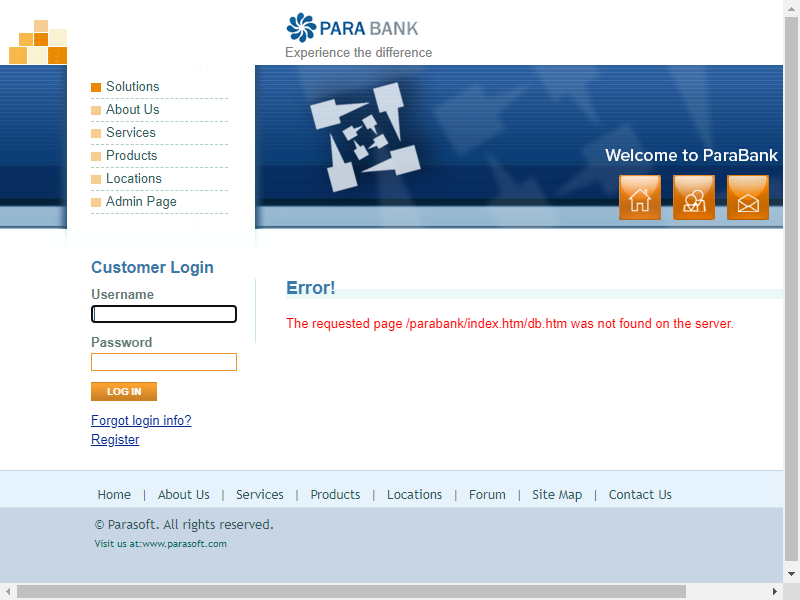
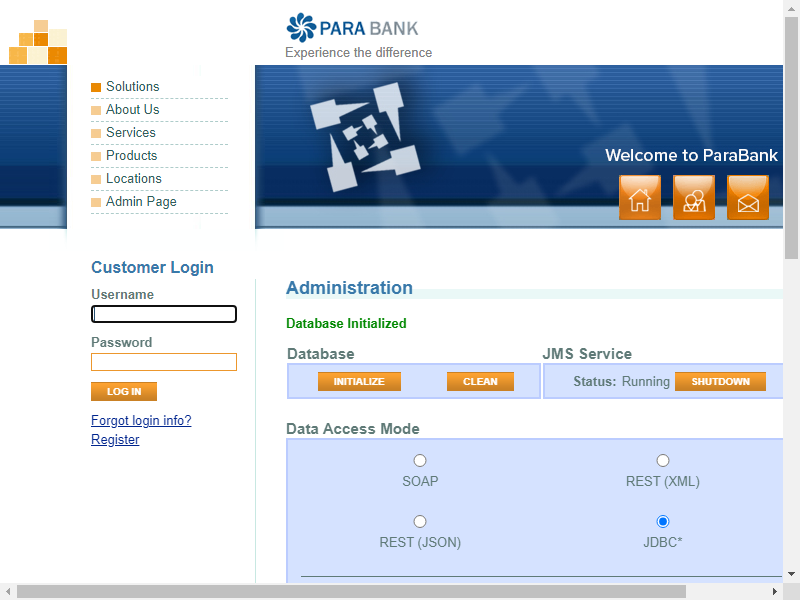
ultimas alterações

Changed region(s): [[0.0, 0.42, 1.0, 0.99], [0.8438, 0.51, 0.9062, 0.57]]

diff --git a/testes_automatizados/features/step_definitions/initialize_database.rb b/testes_automatizados/features/step_definitions/initialize_database.rb
@@ -8,13 +8,13 @@ Quando('clicar na opção  da página de administrador') do
 end
   
 Quando('clicar para iniciar o banco de dados') do 
-    #@database_page = Pages::Database.new
-    #@database_page.load  # Carrega a página /db
+    @database_page = Pages::Database.new
+    @database_page.load  # Carrega a página /db
     #binding.pry
-    #@database_page.btn_initialize_database.click
+    @database_page.btn_initialize_database.click
     #não encontro o banco de dados
 end
   
 Então('deverá aparecer a mensagem de sucesso {string}') do |success_message|
-     expect(@database_page).to have_text(success_message)
+     expect(@database_page).to have_text("Database Initialized")
 end

diff --git a/testes_automatizados/features/page_objects/pages/database.rb b/testes_automatizados/features/page_objects/pages/database.rb
@@ -1,8 +1,9 @@
 module Pages
     class Database < SitePrism::Page
-        set_url '/db.htm'
+        set_url '/admin.htm'
 
-        element :btn_initialize_database, "//button[normalize-space()='Initialize']"
+        element :btn_initialize_database, "button[value='INIT']"
+        element :success_message, "div#rightPanel p b"
         
     end
 end

diff --git a/README.md b/README.md
@@ -1,9 +1,129 @@
 # SPRINT 6 - REALITY STONE T05 
 
+Nesse repositório contém todo o plano de testes automatizados para o site [Para Bank]('https://parabank.parasoft.com/parabank/index.htm'). Conforme foi proposto pelo Programa de Bolsas da Compass UOL.
 
-!!! Win !!!
+### ↳ mapa_mental  ###
+Esta o mapa mental, usado como base para o desenvolvimento dos testes.
 
-Repositório de apresentação do challenge da Sprint 6: Plano de testes automatizados -> https://parabank.parasoft.com/parabank/index.htm
+### ↳ plano_de_testes ###
+Está toda a documentação realizada previamente à automação,
+
+----
+
+# Instruções Gerais para o Funcionamento dos Testes Automatizados ⇩⇩
+
+## ↳ Clonando Todo o Repositório
+
+Clique em <code> e depois **download .zip**, após ter baixado é só extrair no local de sua preferência.
+![Exemplo](/mapa_mental/baixando.jpg)
+
+----
+<p>
+
+⚠ Warning: O projeto foi desenvolvido com o **sistema operacional Windows**, ou seja, todas as aplicações foram instaladas na versão para Windows e as orientações do README são voltadas para o mesmo. A recomendação para o bom funcionamento da automação, é que se utilize as mesmas versões, o mesmo sistema operacional e os mesmos programas.
+
+<br>
+
+⚠ Warning: Se você já possui os pré-requisitos e já clonou a pasta com os arquivos para a sua máquina ou GitHub, pode ir para o item [Executando](#executando), lá estão as instuções para executar os testes automatizados na sua máquina. 
+
+</p>
+
+<p>
+O editor de texto utilizado durante o desenvolvimento da calculadora foi o Visual Studio Code (VScode), <a herf="https://code.visualstudio.com/">Download aqui</a>. O terminal escolhido foi o Cmder (v1.3.24), <a href="https://github.com/cmderdev/cmder/releases/tag/v1.3.24">Download aqui</a>, podendendo também ser utilizado terminal do VScode.
+</p>
 
 
-relizei testes exploratórios e coloquei no projects, estou commitando pois não sei se o project mostra a atividade
+ **Pré-Requisitos**
+
+* Ter uma conta no GitHub ➝ Se não possuir, crie sua conta em: <https://github.com/signup> 
+* Ter o Git instalado na máquina (v2.41.0 x64) ➝ Passo a passo em: <https://git-scm.com/book/pt-br/v2/Come%C3%A7ando-Instalando-o-Git>
+* Terminal;
+* Editor de Texto + extensões em Ruby;
+* Ruby+Devkit (v3.2.2-1 x64) _versão recomendada_ ➝ Disponível em: <https://rubyinstaller.org/downloads/>
+* Google Chrome (v116.0.5845.141 x64)
+* Gem ➝ cucumber-ruby (v9.0.1)
+* Gem ➝ chrome driver ➝ selenium-webdriver (v4.12.0, 4.11.0)
+* Lista das Gem's utilizadas ⇩
+
+``` ruby
+gem 'cucumber'
+gem 'capybara'
+gem 'selenium-webdriver'
+gem 'rspec' 
+gem 'site_prism'
+gem 'pry'
+gem 'faker'
+
+```
+
+Tendo os pré-requistos, partimos para a preparaçãpo do ambiente e as instruções para instalação das Gem's e extensões. 
+
+## Preparação de Ambiente ##
+
+1. VScode
+
+Com o programa aberto, selecionamos as abas 'view -> extensions' **atalho Crtl+Shift+X** <br>
+Sugestão de extensões: Ruby, Snippets and Syntax Highlight for Gherkin (Cucumber), Gherkin Indent, EditorConfig, CucumberOpen, Ruby Solargraph e Code Runner.
+
+2. Cmder
+
+Abrir o terminal e executar os seguintes comandos: <br>
+gem install win32console<br>
+gem install bundler<br>
+gem install ruby-debug-ide <br>
+<br>
+Conferir as gem's instaladas com o comando: gem list ou gem list bundler + (nome da gem para filtrar) <br> <br>
+
+⚠ Warning: **Quando for usar o Cmder**, não esqueça de abrir o terminal na pasta onde os arquivos da automação de testes foram baixados, ou, acessar a pasta usando o comando cd + caminho das pastas.
+
+## Clonando o Diretório ## 
+1. Crie uma nova pasta na sua máquina;
+2. Abra o Git Bash na pasta criada;
+3. Entre com o comando: ``` 
+git clone -n [https://github.com/Thais-Ossanes/pb_S6_RealityStone_-Thais_Ossanes-_Compass.git] ```;
+(após esse comando, o repositório com os arquivos está acessível)
+4. Comando **ls** confirma que o repositório foi clonado (confirma vendo o nome do repositório: **pb_Sprint_S6_-RealityStone_-Thais_Ossanes-_Compass**);
+5. Entre com o comando ```  
+cd pb_Sprint_5_-RealityStone-_-Thais_Ossanes-_Compass```;
+
+6. Entre com o comando ```
+git checkout HEAD [testes_automatizados]```;
+
+7. Comando **ls** confirma se a pasta foi clonada;
+8. Entre com o comando ``` 
+cd testes_automatizados```;
+
+9. Entre com o comando ```
+code .``` (abrirá os aquivos no VScode);
+
+## Executando ##
+
+Abra o Cmder na pasta 'testes_automatizados' e entre com o comando ```
+bundle install``` (assim serão instaladas as gem's listadas acima, que estão cotidas no arquivo 'Gemfile').
+Após instalar as Gem's entre com o comando ```
+bundle exec cucumber `` e serão executados todos cenários de testes podendo ser acompanhados na tela. Ou com o comando ```cucumber -p prd -p headless```
+<br><br>
+
+Aqui algumas sugestões de testes unitários para validação com **binding.pry** (tirar o comentário nos specs)
+
+> realizar um login com usuário já cadastrado ➝ ``` 
+bundle exec cucumber -p default -t@default_login ```
+
+> testar o menu lateral do header ➝ ```
+bundle exec cucumber -p default -t@init_db ```
+
+<br>
+
+## Documentação ##
+
+* [Chrome Driver] ('https://chromedriver.chromium.org') ➝ [Capabilities] ('https://chromedriver.chromium.org/')
+* [Capybara] ('https://github.com/teamcapybara/capybara')
+* [Ruby Faker] ('https://github.com/faker-ruby/faker')
+* [Site Prism] ('https://github.com/site-prism/site_prism')
+* [Reports Cucumber] ('https://cucumber.io/docs/cucumber/reporting/?lang=java')
+* [Automação em BDD] ('https://automationpanda.com/bdd/')
+* [Git] ('https://git-scm.com/e')
+
+## Sites que Podem te Ajudar ##
+
+<a href="https://carlos-augusto-roque.medium.com/clonagem-de-repositório-no-github-como-clonar-apenas-uma-pasta-ou-um-arquivo-de-um-repositório-9baaad5ea3d8#:~:text=Execute%20o%20comando%20%3A%20git%20checkout,apenas%20a%20pasta%20“pages”.">Como clonar um diretório no GitHub</a>

diff --git a/mapa_mental/README.md b/mapa_mental/README.md
@@ -5,8 +5,10 @@
 #  Zoom nas Funcionalidades Importantes
 
 ## Menu
+<img src='menu.png'>
 
 ## Login
+<img src='login.png'>
 
 ## Account Services
-
+<img src='Account_services.png'>
